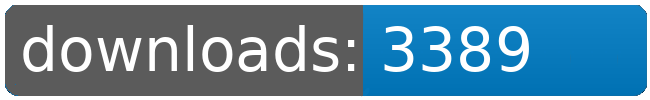
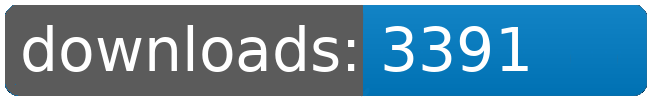
dl log written

Changed region(s): [[0.7077, 0.24, 0.8308, 0.72]]

diff --git a/README.md b/README.md
@@ -98,8 +98,8 @@
 		<td>3325</td>
 		<td>3357</td>
 		<td>3380</td>
-		<td>3389</td>
-		<td>+ 9</td>
+		<td>3391</td>
+		<td>+ 11</td>
 	</tr>
 	<tr>
 		<td></td>
@@ -109,8 +109,8 @@
 		<td></td>
 		<td></td>
 		<td></td>
-		<td>29622</td>
-		<td>62</td>
+		<td>29624</td>
+		<td>64</td>
 	</tr>
 </table>
 </sub></sup>
@@ -212,8 +212,8 @@
 		<td>3325</td>
 		<td>3357</td>
 		<td>3380</td>
-		<td>3389</td>
-		<td>+ 9</td>
+		<td>3391</td>
+		<td>+ 11</td>
 	</tr>
 	<tr>
 		<td></td>
@@ -223,8 +223,8 @@
 		<td></td>
 		<td></td>
 		<td></td>
-		<td>29622</td>
-		<td>62</td>
+		<td>29624</td>
+		<td>64</td>
 	</tr>
 </table>
 </sub></sup>
